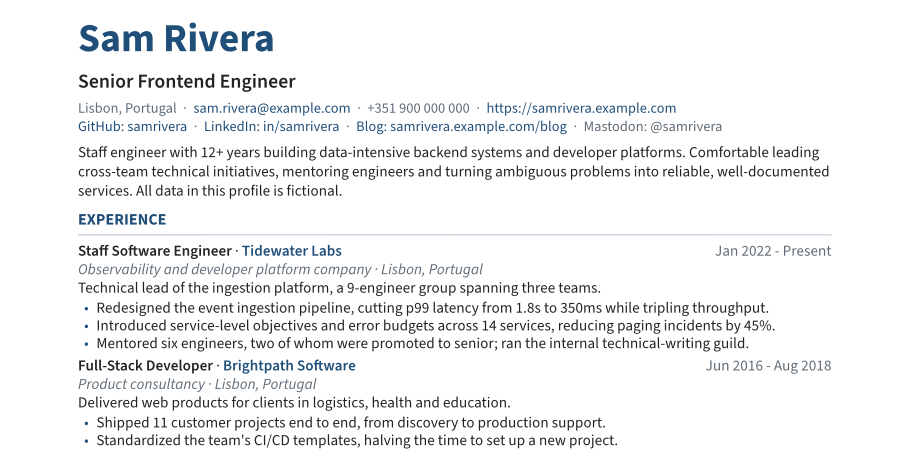
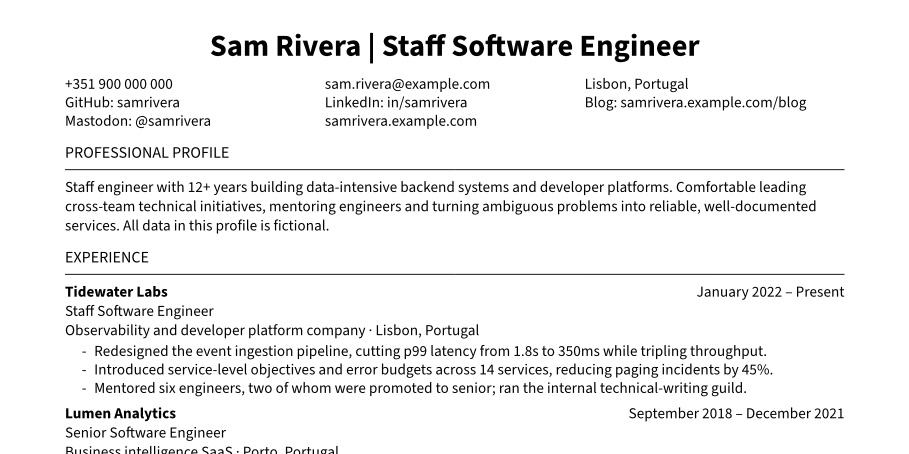
feat(projects): use Discord link in the footer and the Clean CV preview
The Chamba Lab footer entry now points to the community Discord with its logo,
and the CV Factory card uses the Clean template preview.

Changed region(s): [[0.0616, 0.0308, 0.9241, 1.0]]

diff --git a/src/utils/social.ts b/src/utils/social.ts
@@ -32,10 +32,10 @@ export const USER_SOCIALS: SocialLink[] = [
     },
     {
         name: "Chamba Lab",
-        url: "https://chambalab.org/",
-        icon: "☕",
+        url: "https://chambalab.org/discord",
+        icon: '<svg xmlns="http://www.w3.org/2000/svg" viewBox="0 0 24 24" fill="currentColor" class="w-full h-full"><path d="M20.317 4.3698a19.7913 19.7913 0 00-4.8851-1.5152.0741.0741 0 00-.0785.0371c-.211.3753-.4447.8648-.6083 1.2495-1.8447-.2762-3.68-.2762-5.4868 0-.1636-.3933-.4058-.8742-.6177-1.2495a.077.077 0 00-.0785-.037 19.7363 19.7363 0 00-4.8852 1.515.0699.0699 0 00-.0321.0277C.5334 9.0458-.319 13.5799.0992 18.0578a.0824.0824 0 00.0312.0561c2.0528 1.5076 4.0413 2.4228 5.9929 3.0294a.0777.0777 0 00.0842-.0276c.4616-.6304.8731-1.2952 1.226-1.9942a.076.076 0 00-.0416-.1057c-.6528-.2476-1.2743-.5495-1.8722-.8923a.077.077 0 01-.0076-.1277c.1258-.0943.2517-.1923.3718-.2914a.0743.0743 0 01.0776-.0105c3.9278 1.7933 8.18 1.7933 12.0614 0a.0739.0739 0 01.0785.0095c.1202.099.246.1981.3728.2924a.077.077 0 01-.0066.1276 12.2986 12.2986 0 01-1.873.8914.0766.0766 0 00-.0407.1067c.3604.698.7719 1.3628 1.225 1.9932a.076.076 0 00.0842.0286c1.961-.6067 3.9495-1.5219 6.0023-3.0294a.077.077 0 00.0313-.0552c.5004-5.177-.8382-9.6739-3.5485-13.6604a.061.061 0 00-.0312-.0286zM8.02 15.3312c-1.1825 0-2.1569-1.0857-2.1569-2.419 0-1.3332.9555-2.4189 2.157-2.4189 1.2108 0 2.1757 1.0952 2.1568 2.419 0 1.3332-.9555 2.4189-2.1569 2.4189zm7.9748 0c-1.1825 0-2.1569-1.0857-2.1569-2.419 0-1.3332.9554-2.4189 2.1569-2.4189 1.2108 0 2.1757 1.0952 2.1568 2.419 0 1.3332-.946 2.4189-2.1568 2.4189Z"/></svg>',
         label: "Community",
-        colorClass: "hover:text-yellow-400",
+        colorClass: "hover:text-indigo-400",
         excludeFromSameAs: true,
     },
     {
